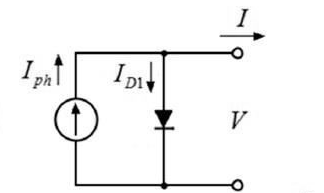
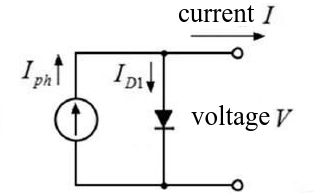
solar energy revised text

Changed region(s): [[0.5864, 0.5285, 0.9259, 0.6839], [0.5556, 0.0311, 0.8642, 0.1554], [0.5864, 0.1554, 0.679, 0.2176]]

diff --git a/Tex/elsevier/trindade_solar_energy_rev1.tex b/Tex/elsevier/trindade_solar_energy_rev1.tex
@@ -71,7 +71,7 @@
 \address[mysecondaryaddress]{University of Manchester, School of Computer Science, Kilburn Building, Manchester M13 9PL}
 
 \begin{abstract}
-With declining costs and increasing performance, the deployment of renewable energy systems is growing faster. In 2017, for the first time, the number of people without access to electricity dipped below 1 billion, but trends on energy access likewise fall short of global goals. Particular attention is given to stand-alone solar photovoltaic systems in rural areas or where grid extension is unfeasible. Tools to evaluate electrification projects are available, but they are based on simulations that do not cover all aspects of the design space. Automated verification using model checking has proven to be an effective technique to validate any kind of system. This paper marks the first application of software model checking to formally verify the design of a stand-alone solar photovoltaic system including solar panel, charge controller, battery, inverter, and electric load. Case studies, from real photovoltaic systems deployed in five different sites, ranging from 700 W to 1,200 W, were used to evaluate this proposed approach and to compare that with specialized simulation tools. Different verification tools were evaluated as well, in order to compare performance and soundness. Data from practical applications show the effectiveness of our approach, where specific conditions that lead to failures in a photovoltaic solar system are only detailed by the automated verification method.
+With declining costs and increasing performance, the deployment of renewable energy systems is growing faster. In 2017, for the first time, the number of people without access to electricity dipped below 1 billion, but trends on energy access likewise fall short of global goals. Particular attention is given to stand-alone solar photovoltaic systems in rural areas or where grid extension is unfeasible. Tools to evaluate electrification projects are available, but they are based on simulations that do not cover all aspects of the design space. Automated verification using model checking has proven to be an effective technique to validate \textcolor{red}{complex systems}. This paper marks the first application of software model checking to formally verify the design of a stand-alone solar photovoltaic system including solar panel, charge controller, battery, inverter, and electric load. \textcolor{red}{Therefore the focus is in the solar photovoltaic project validation, as intended to be done just after the system sizing, prior to buy equipment and deploy it at the field, as a way to ensure the intended behavior. Case studies, ranging from 700 W to 1,200 W}, were used to evaluate this proposed approach and to compare that with specialized simulation tool. Different verification tools were evaluated as well, in order to compare performance and soundness among automated tools. \textcolor{red}{The results reported by the automated verification and by the simulation tools were compared with data collected from dwellers of the deployed cases, showing the effectiveness of our approach, where specific conditions that lead to failures in a photovoltaic solar system are only detailed by the automated verification method.}
 \end{abstract}
 
 \begin{keyword}
@@ -132,6 +132,8 @@ The project requirements, as battery autonomy and power demand, besides weather 
 %Among the non-deterministic variables considerated, is it worth to mention environmental issues (like solar irradiance, and temperature), and the variation of the electrical load (power consumption) or the battery' state of charge, as shown in Fig.\ref{fig:flowchartgeneral}.
 The implementation of the proposed tool is carried out by means of an algorithm in language C, that is executed by three state-of-the-art model checkers to formally verifying PV designs, in order to evaluate performance and correctness: the C Bounded Model Checker (CBMC)~\citep{Kroening}, the Efficient SMT-based Bounded Model Checker (ESBMC)~\citep{esbmc2018}, and the Configurable Program Analysis Checker (CPAchecker).
 %three the efficient SMT-based bounded model checker (ESBMC)~\cite{esbmc2018}. %, which allows one to incrementally verify a PV system as an imperative program using a fragment of decidable first-order theories~\cite{DBLP:books/daglib/0019162}.
+
+\textcolor{red}{Note that in this study, our focus is not on a novel mathematical modelling of PV systems. Instead, our novelty relies on an effective approach to perform validation of PV systems using formal methods, in a process that is intended to be done just after the system sizing, prior to buy equipment and deploy it at the field, as a way to ensure the intended behavior.}
 
 In prior studies, the evaluation of PV systems w.r.t. user requirements were performed by simulation tools using MATLAB/Simulink~\citep{Benatiallah2017, Natsheh2012}, or HOMER Pro \citep{Lamnadi2017}, where some mathematical model was adopted and the tool simulated the PV behavior over the time. Related to formal methods, in 2015, an approach for applying Monte-Carlo simulation to power system protection schemes presented limitations of incomplete coverage of all possible operating conditions~\citep{Sengupta2015}. The authors proposed an automated simulation-based verification technique to verify correctness of protection settings using hybrid automata-temporal-logic framework. In 2017, a researcher suggested the application of formal methods to verify and control the behavior of computational devices interacting over a shared-smart infrastructure~\citep{Abate2017}. The author discussed the aggregation of large populations of thermostatically-controlled loads and of PV panels, and the corresponding problems of energy management in smart buildings and smart grids. The author used approximate model checking of stochastic and hybrid models. In 2018, a verification methodology was proposed with applications to PV panels and its distributed power point tracking~\citep{Driouich2018}. This approach relied on representing unpredictable behavior of the environment to cover all possible feasible scenarios. The simulation results obtained by JModelica had evident time consuming issue with almost three days of computer effort to verify the design space of one operation hour of the PV panels behavior. Another work from 2018 was the approach to modeling smart grid components using a formal specification. The authors used a state-based formal specification language named Z; they demonstrated the application to four smart grid components~\citep{Akram2018}. This approach is based on Petri nets.
 %%%%%%%%%%%%%
@@ -292,8 +294,8 @@ In this study, HOMER was chosen to comparative with our proposed verification ap
 %-------------------------------------------------------------------
 %The main purpose of this section is to describe the models for the elements of a stand-alone PV system: PV generator, battery, controller, inverter, and load. 
 %The mathematical modeling of the PV system is based on modular blocks, as illustrated in Fig.\ref{fig:blockdiagram}. It identifies the PV generator, batteries, charge controller, inverter, and AC load. 
-A stand-alone PV system is illustrated in Fig.\ref{fig:blockdiagram}. The PV generator is a semiconductor device that can convert solar energy into DC electricity. %In Fig.\ref{fig:blockdiagram}, there are two variables that depend on the site where the system is deployed and the weather (i.e., solar irradiance $G$ and temperature $T$). 
-For night hours or rainy days, power stored in batteries can be used and it implies the presence of a charge controller~\citep{Hansen}. The PV arrays produce DC and therefore when the PV system contains an AC load, a DC/AC conversion is required (inverter). The AC load dictates the behavior of AC electrical load from the house that will be fed by the system.
+A stand-alone PV system is illustrated in Fig.\ref{fig:blockdiagram}. The PV generator is a semiconductor device that can convert solar energy into DC electricity\textcolor{red}{, with high dependence of two weather variables from the site where the system is deployed: solar irradiance $G$ and temperature $T$}. 
+For night hours or rainy days, power stored in batteries can be used and it implies the presence of a charge controller~\citep{Hansen}. The PV arrays produce DC and therefore when the PV system contains an AC load, a DC/AC conversion is required (inverter). The AC load dictates the behavior of AC electrical load from the house that will be fed by the system. \textcolor{red}{At this pictured modular structure, every element produces/consumes current $I$ and voltage $V$ as illustrated by their physical magnitudes, where $pv$ means photovoltaic, $bat$ is battery, $dc$ is direct and $ac$ is alternating signals.}
 %
 %The modular structure facilitates the modeling of the other system structures and replacement of elements, such as a DC load instead of an AC load. 
 %
@@ -1193,7 +1195,7 @@ Verification engine CPAchecker 1.8 was used \footnote{Command-line: \$ scripts/c
 % enabled with the goal of reducing memory usage; 
  %The experiments were performed without a predefined timeout.
 
-\textcolor{red}{Note that the results presented here depend on the computer’s processor and memory, the version of each tool (CBMC, ESBMC, CPAchecker), the parameters passed by the command-line, and the algorithm to be solved. Additionally, any change from HOMER Pro to another tool can influence the measured time of the algorithms.}
+\textcolor{red}{Note that the results presented here depend on the computer's processor and memory, the version of each tool (CBMC, ESBMC, CPAchecker), the parameters passed by the command-line, and the algorithm to be solved. Additionally, any change from HOMER Pro to another simulation tool can influence the measured time to obtain results.}
 
 %------------------------------------------
 \subsection{Results and Discussion}
@@ -1306,7 +1308,9 @@ The adoption of more complex models, or even an evaluation in a PV laboratory to
 \section{Conclusions and Future Work}
 \label{sec:Conclusions}
 %-------------------------------------
-We have described and evaluated an automated verification method to check whether a given PV system meets its specification using software model checking techniques. We have considered five case studies from real PV systems deployed in five different sites, ranging from $700$ W to $1,200$ W; and three state-of-art verification engines were considered (ESBMC, CBMC, and CPAchecker). Although the verification method proposed takes longer than simulation methods, it is able to present details that lead to failures in a PV system that is not a feature presented in commercial simulation tool. In particular, the proposed method was successful in finding sizing errors and indicating in details. Related to the verification engines comparative, the ESBMC with the Z3 solver executed in the incremental configuration presented the better performance (around four times faster than CBMC), used less RAM memory (less than 2GB when compared to 9.2GB of CBMC and 19.2GB of CPAchecker), and all the results were sound because the PV owners and the monitoring system validated the possible flaws that the system could be presenting in the field.
+We have described and evaluated an automated verification method to check whether a given PV system meets its specification using software model checking techniques. 
+\textcolor{red}{The focus was on the method to validate PV systems projects, based on formal methods that can cover the design-space better than simulation tools. 
+We have considered five case studies, ranging from $700$ W to $1,200$ W; three state-of-art verification engines were considered (ESBMC, CBMC, and CPAchecker); and one specialized simulation tool (HOMER Pro). The results from automated verification and simulation tools were confronted with information collected from dwelles of the sites where the real PV systems were deployed.} Although the verification method proposed takes longer than simulation methods, it is able to present details that lead to failures in a PV system that is not a feature presented in commercial simulation tool. In particular, the proposed method was successful in finding sizing errors and indicating in details. Related to the verification engines comparative, the ESBMC with the Z3 solver executed in the incremental configuration presented the better performance (around four times faster than CBMC), used less RAM memory (less than 2GB when compared to 9.2GB of CBMC and 19.2GB of CPAchecker), and all the results were sound because the PV owners and the monitoring system validated the possible flaws that the system could be presenting in the field.
 %New tests must be performed, in an improved setup (i.e., better computing performance) with the goal of obtaining verification results in shorter times than the ones obtained in this study. 
 As future work, we will also consider other types of renewable energy and even hybrid ones to allow our method to verify typical rural electrification.
 %the proposed method will be extended to start from a list of commercial equipment, where each equipment is verified and the final solution, which satisfies the project specification, is found, thus leading to an optimum sizing of PV systems. 

diff --git a/Tex/elsevier/reply Solar Energy JULY 2019.tex b/Tex/elsevier/reply Solar Energy JULY 2019.tex
@@ -166,6 +166,10 @@ I have specifics questions and suggestions in order to improvement the manuscrip
 1.-To clarify the figure 2, i recommend write "current" inside the figure, don't put just I.
 
 \begin{resposta} 
+We thank the kind comment provided by this reviewer. Indeed, it summarizes what was intended to be done with this manuscript. In addition, we should highlight that the main focus was at the validation process of the PV system, instead of the mathematical modelling that was investigated in prior studies over the last two decades. This information was carefully included at the revised Abstract, Introduction and at the Conclusion sections.
+
+Regarding the Figure 2, we did as highlighted by the reviewer. Moreover, we did the same to voltage V in order to keep the same standard.
+
 
 \end{resposta}
 
@@ -178,13 +182,13 @@ I have specifics questions and suggestions in order to improvement the manuscrip
 3.-In text reference at figure 1 the authors do not describe all symbols drawn into image, for instances, what is means G, T. I suspect that in section 4 they define which are the variables (Irradiation and temperature). I suggest you define those symbols in the text that that figure describes.
 
 \begin{resposta} 
-
+Indeed, we miss this information at paragraph that describes the Figure. We thank you so much for this observation. Therefore we revised the text and described every symbol. The final version of the paragraphs were: "A stand-alone PV system is illustrated in Fig.1. The PV generator is a semiconductor device that can convert solar energy into DC electricity, with high dependence of two weather variables from the site where the system is deployed: solar irradiance $G$ and temperature $T$. For night hours or rainy days, power stored in batteries can be used and it implies the presence of a charge controller. The PV arrays produce DC and therefore when the PV system contains an AC load, a DC/AC conversion is required (inverter). The AC load dictates the behavior of AC electrical load from the house that will be fed by the system. At this pictured modular structure, every element produces/consumes current $I$ and voltage $V$ as illustrated by their physical magnitudes, where $pv$ means photovoltaic, $bat$ is battery, $dc$ is direct and $ac$ is alternating signals.".
 \end{resposta}
 
 4.- Are the verification results carried out affected by the different characteristics of the computers?
 
 \begin{resposta} 
-
+Indeed, we did not inform the impact the changing of computer setup or related issues. We thank you so much for this observation. Therefore we revised the text and included the following paragraph: "Note that the results presented here depend on the computer's processor and memory, the version of each tool (CBMC, ESBMC, CPAchecker), the parameters passed by the command-line, and the algorithm to be solved. Additionally, any change from HOMER Pro to another simulation tool can influence the measured time to obtain results.".
 \end{resposta}
 
 \end{quote}
